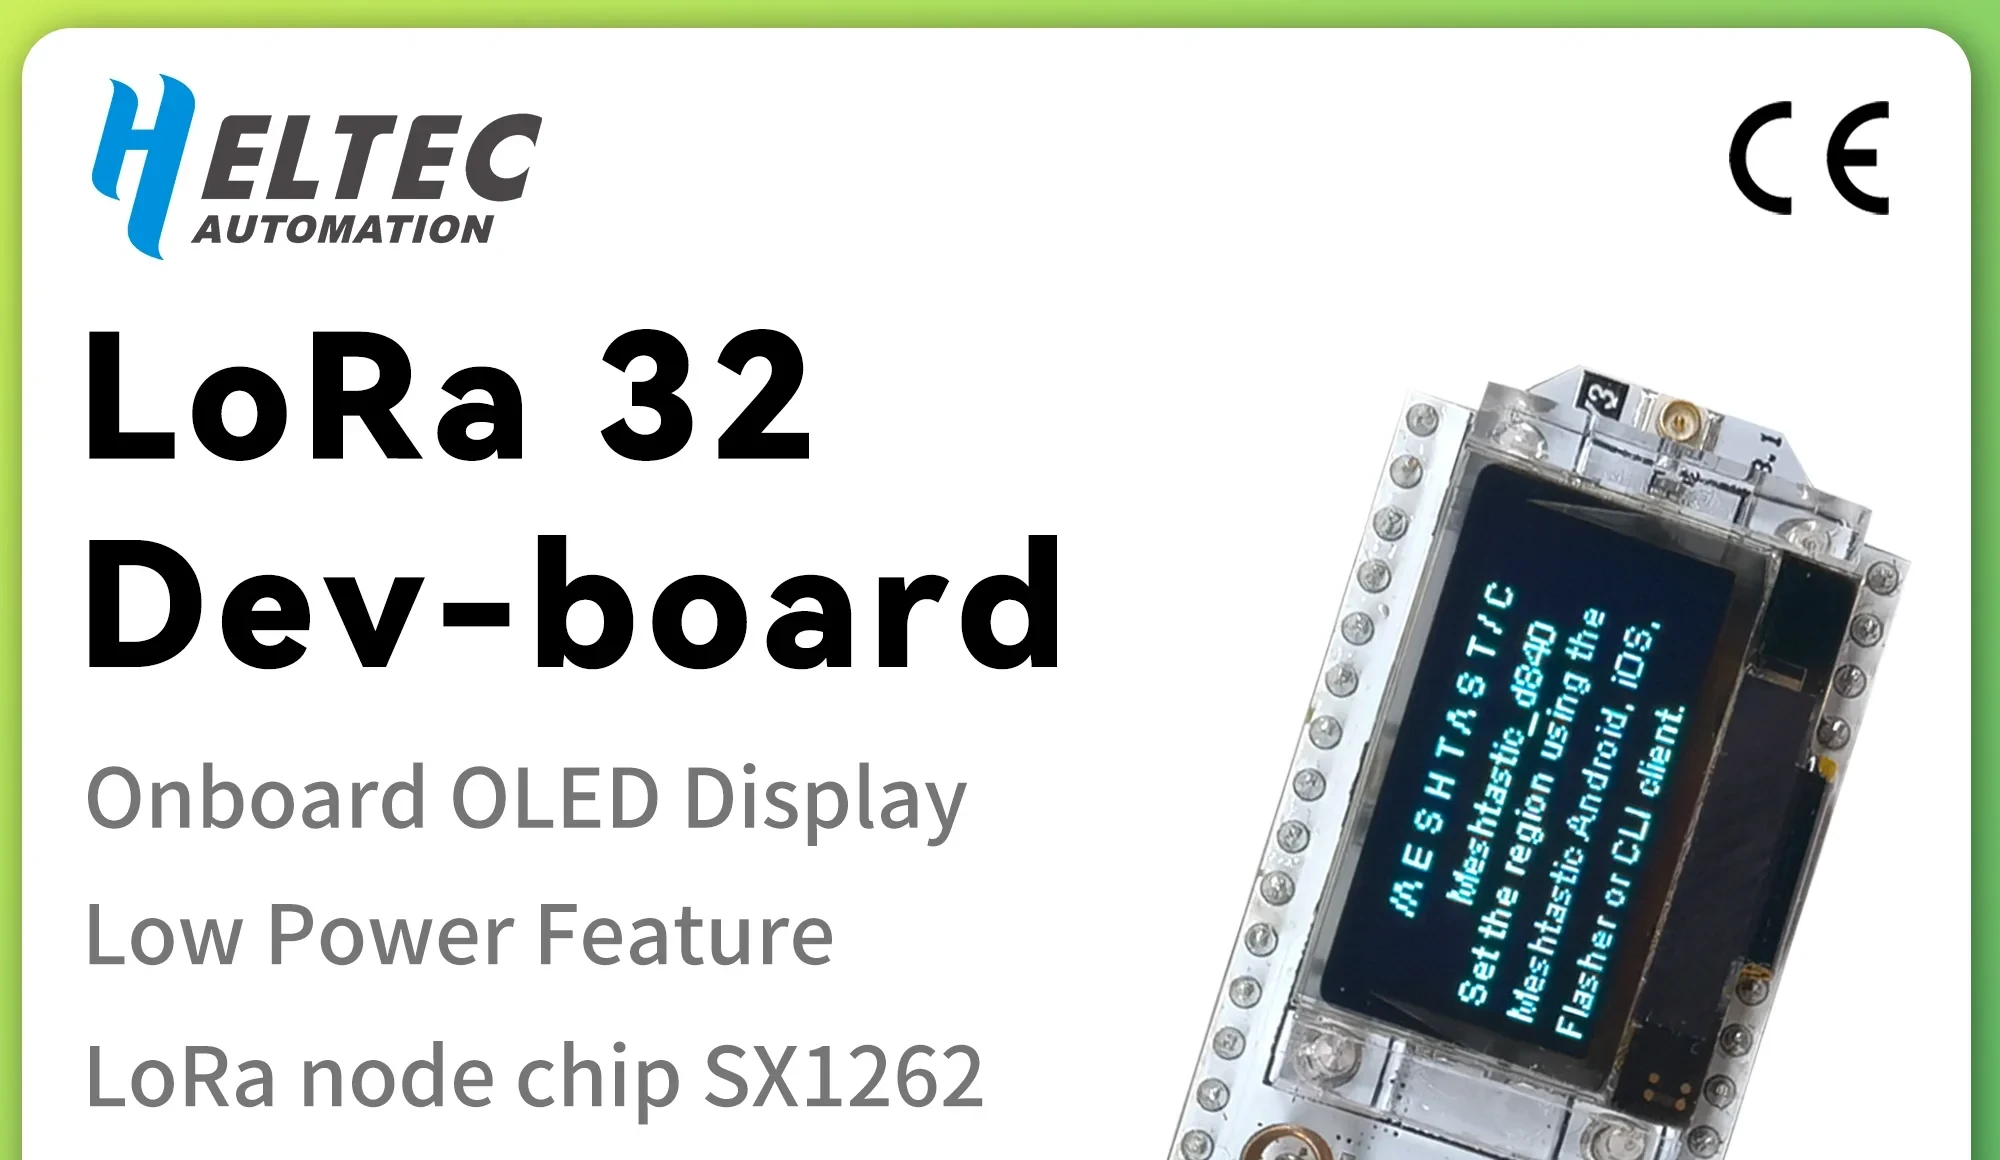
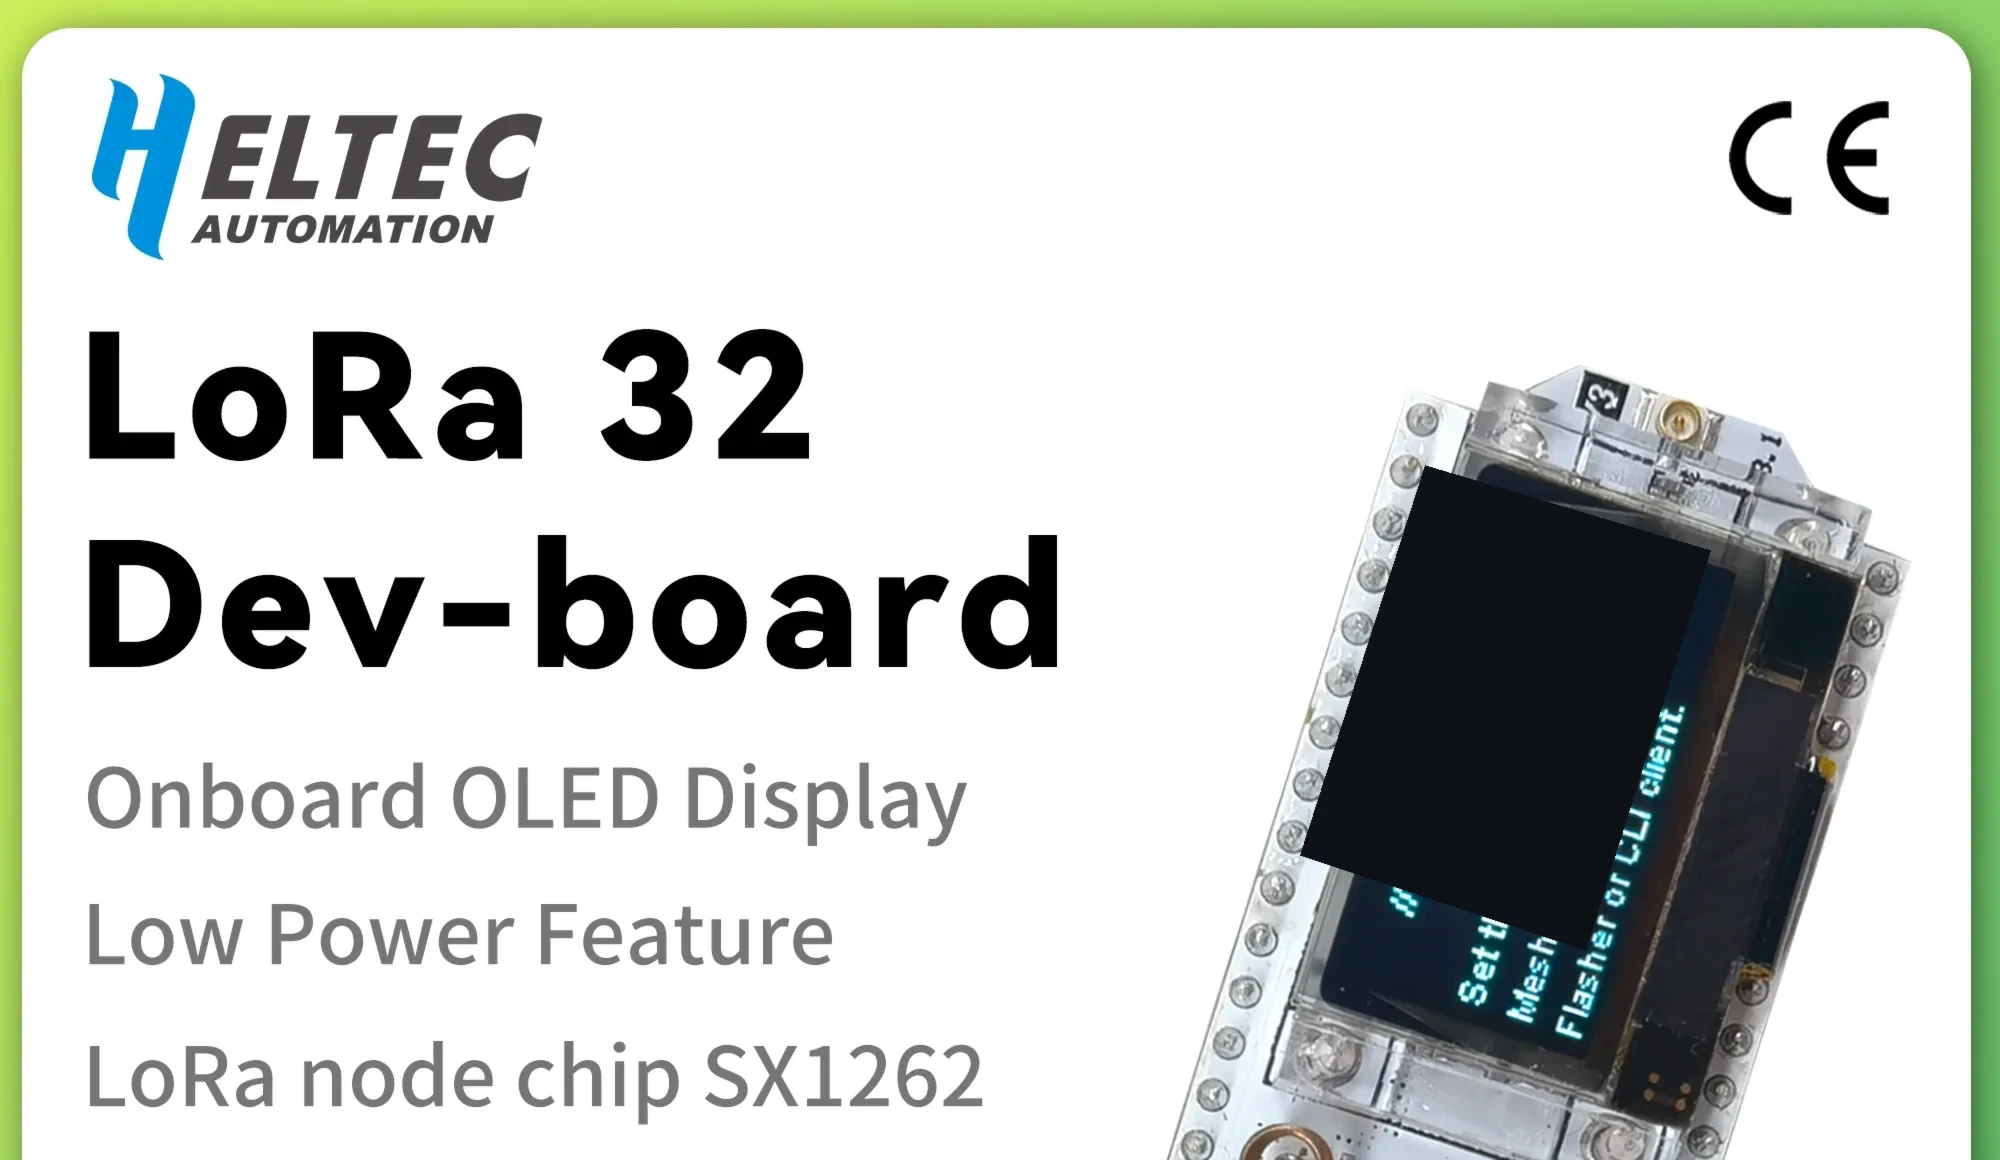
feat(store): uniform branded cards for every product image
All 27 gallery images across the 11 listings are now 1200x1200 Antidosis
cards (gradient, logo, title, gold-bordered photo panel) generated by
generate-store-graphics.py — no raw supplier photos remain. Upgrade parts
state their compatible models on the card (battery/case/solar fit Heltec
V3-V4-T114-RAK; whips fit SMA nodes; outdoor omni for bases & repeaters).
Heltec V3 hero rebuilt from the clean board render (supplier card with
Meshtastic OLED splash dropped entirely).

Changed region(s): [[0.651, 0.4034, 0.868, 0.8069]]

diff --git a/scripts/generate-store-graphics.py b/scripts/generate-store-graphics.py
@@ -330,6 +330,116 @@ def p1_pro() -> None:
     print("wrote p1-pro-mto.webp")
 
 
+def product_card(src: str, out: str, title: str, sub: str, seed: int) -> None:
+    """Uniform 1200x1200 branded card for a raw product photo."""
+    palettes = [
+        ([(0.0, (8, 12, 8)), (0.45, (12, 26, 16)), (1.0, (30, 22, 8))],
+         [((760, -320, 1560, 420), (22, 78, 40), 56), ((-360, 820, 480, 1520), (90, 54, 10), 52)]),
+        ([(0.0, (6, 10, 14)), (0.5, (8, 24, 26)), (1.0, (14, 34, 18))],
+         [((-300, -260, 620, 560), (0, 70, 84), 62), ((620, 700, 1500, 1500), (20, 80, 40), 66)]),
+    ]
+    stops, glows = palettes[seed % 2]
+    card = base_card(stops, glows, seed=seed)
+
+    lg = logo(190)
+    card.alpha_composite(lg, (72, 48))
+    title_y = 48 + lg.height + 30
+
+    d = ImageDraw.Draw(card)
+    d.text((72, title_y), title, font=font("segoeuib.ttf", 54), fill=(*GOLD, 255))
+    d.rectangle([74, title_y + 78, 174, title_y + 84], fill=(*SUN, 255))
+
+    photo = Image.open(STORE / src).convert("RGB")
+    photo.thumbnail((860, 660), Image.LANCZOS)
+    frame = Image.new("RGBA", (photo.width + 8, photo.height + 8), (0, 0, 0, 0))
+    mask = Image.new("L", photo.size, 0)
+    ImageDraw.Draw(mask).rounded_rectangle([0, 0, photo.width, photo.height], radius=26, fill=255)
+    frame.paste(photo, (4, 4), mask)
+    ImageDraw.Draw(frame).rounded_rectangle(
+        [0, 0, frame.width - 1, frame.height - 1], radius=30, outline=(*GOLD, 110), width=2
+    )
+    panel_y = title_y + 124 + max(0, (700 - frame.height) // 2)
+    card.alpha_composite(frame, ((SIZE - frame.width) // 2, panel_y))
+
+    d = ImageDraw.Draw(card)
+    d.text((72, 1046), sub, font=font("consola.ttf", 26), fill=(*MERCURY, 235))
+    footer(card, "·  antidosis mesh store")
+    card.convert("RGB").save(STORE / out, "WEBP", quality=88)
+    print(f"wrote {out}")
+
+
+# (source image, output, card title, caption) per product — every raw photo
+# becomes a uniform branded card.
+PRODUCT_CARDS = [
+    ("wio-tracker-l1-2.webp", "wio-card-front.webp", "Wio Tracker L1 Pro", "front view — OLED shows network status at a glance"),
+    ("wio-tracker-dimensions.webp", "wio-card-dims.webp", "Pocket-sized", "56 × 26 mm body, 181 mm with antenna"),
+    ("p1-pro-1.webp", "p1-card-mounted.webp", "On the pole, on the air", "pole or wall mount — 8–9 km open-air range"),
+    ("p1-pro-3.webp", "p1-card-kit.webp", "Everything in the box", "brackets, clamp, antenna and cables included"),
+    ("p1-pro-4.webp", "p1-card-inside.webp", "Solar-charged, always on", "4× 18650 cells inside the IP-rated enclosure"),
+    ("heltec-v3-3.webp", "heltec-v3-card2.webp", "Case-ready", "fits the Heltec V3 case from this store"),
+    ("rak-starter-1.webp", "rak-card.webp", "RAK WisBlock starter", "RAK4631 · nRF52840 + SX1262"),
+    ("rak-starter-2.webp", "rak-card2.webp", "Modular by design", "stack WisBlock sensor modules as you grow"),
+    ("heltec-battery-1.webp", "battery-card.webp", "3000 mAh LiPo", "fits Heltec V3 / V4 / T114 — SH1.25 plug, no soldering"),
+    ("whip-antenna-3.webp", "whip-card.webp", "Folding 915 MHz whip", "fits Wio Tracker, Heltec & RAK nodes — SMA"),
+    ("whip-antenna-2.webp", "whip-card2.webp", "Spec sheet", "≥3 dBi · SMA male · tuned for AU 915 MHz"),
+    ("outdoor-antenna-hero.webp", "outdoor-card.webp", "Outdoor omni, 915 MHz", "for home bases & repeaters — N-male via coax"),
+    ("outdoor-antenna-2.webp", "outdoor-card2.webp", "Built properly inside", "copper oscillator, nickel-plated N connector"),
+    ("d5-solar-1.webp", "d5-card.webp", "D5 solar kit", "powers Heltec V3 & RAK nodes — batteries not included"),
+    ("d5-solar-2.webp", "d5-card2.webp", "Self-sufficient power", "fits Heltec V3 & RAK — 24.3% conversion, IP67"),
+    ("heltec-case-2.webp", "case-card.webp", "Heltec V3 case", "fits Heltec WiFi LoRa 32 V3 only"),
+    ("heltec-kit-1.webp", "kit-card.webp", "Everything in one box", "board + case + 800 mAh battery"),
+    ("heltec-kit-2.webp", "kit-card2.webp", "Full specs", "SX1262 · up to 2.8 km open air · USB-C"),
+    ("heltec-solar-node-hero.webp", "solar-node-card.webp", "4W solar outdoor node", "IP67 · 2A charging · mounts anywhere"),
+    ("heltec-solar-node-2.webp", "solar-node-card2.webp", "Inside the enclosure", "4× 18650 slots — batteries not included"),
+]
+
+
+def heltec_hero() -> None:
+    """Custom Heltec V3 card: board render (rotated upright, black bg keyed)."""
+    card = base_card(
+        [(0.0, (8, 12, 8)), (0.45, (12, 26, 16)), (1.0, (30, 22, 8))],
+        [((340, 300, 1350, 1250), (24, 92, 48), 70), ((-260, 780, 520, 1460), (96, 58, 10), 60)],
+        seed=23,
+    )
+
+    lg = logo(300)
+    card.alpha_composite(lg, (72, 64))
+
+    board = Image.open(STORE / "heltec-v3-2.webp").convert("RGB").rotate(180)
+    px = board.load()
+    alpha = Image.new("L", board.size, 0)
+    ap = alpha.load()
+    for y in range(board.height):
+        for x in range(board.width):
+            r, g, b = px[x, y]
+            lum = max(r, g, b)
+            ap[x, y] = 0 if lum <= 12 else (255 if lum >= 36 else int((lum - 12) / 24 * 255))
+    alpha = alpha.filter(ImageFilter.GaussianBlur(1.0))
+    board = board.convert("RGBA")
+    board.putalpha(alpha)
+    bbox = board.getchannel("A").getbbox()
+    board = board.crop(bbox)
+    board.thumbnail((640, 720), Image.LANCZOS)
+
+    dx, dy = SIZE - board.width - 60, (SIZE - board.height) // 2 + 80
+    halo = Image.new("RGBA", card.size, (0, 0, 0, 0))
+    ImageDraw.Draw(halo).ellipse(
+        [dx - 50, dy - 30, dx + board.width + 50, dy + board.height + 30], fill=(*GREEN, 34)
+    )
+    card = Image.alpha_composite(card, halo.filter(ImageFilter.GaussianBlur(80)))
+    card.alpha_composite(board, (dx, dy))
+
+    d = ImageDraw.Draw(card)
+    d.text((72, 330), "THE MAKER'S", font=font("segoeuib.ttf", 84), fill=(*GOLD, 255))
+    d.text((72, 428), "FIRST NODE.", font=font("segoeuib.ttf", 84), fill=(*GOLD, 255))
+    d.rectangle([74, 546, 208, 553], fill=(*SUN, 255))
+    chips(card, 72, 588, ["HELTEC WIFI LORA 32 V3", "ESP32-S3 + SX1262 + OLED", "MESHCORE FLASHED FOR YOU"])
+
+    footer(card, "·  australia mid · 915 mhz")
+    card.convert("RGB").save(STORE / "heltec-v3-card.webp", "WEBP", quality=90)
+    print("wrote heltec-v3-card.webp")
+
+
 if __name__ == "__main__":
     hero()
     checklist()
@@ -342,3 +452,6 @@ if __name__ == "__main__":
     )
     dimensions()
     p1_pro()
+    heltec_hero()
+    for i, (src, out, title, sub) in enumerate(PRODUCT_CARDS):
+        product_card(src, out, title, sub, seed=100 + i)
